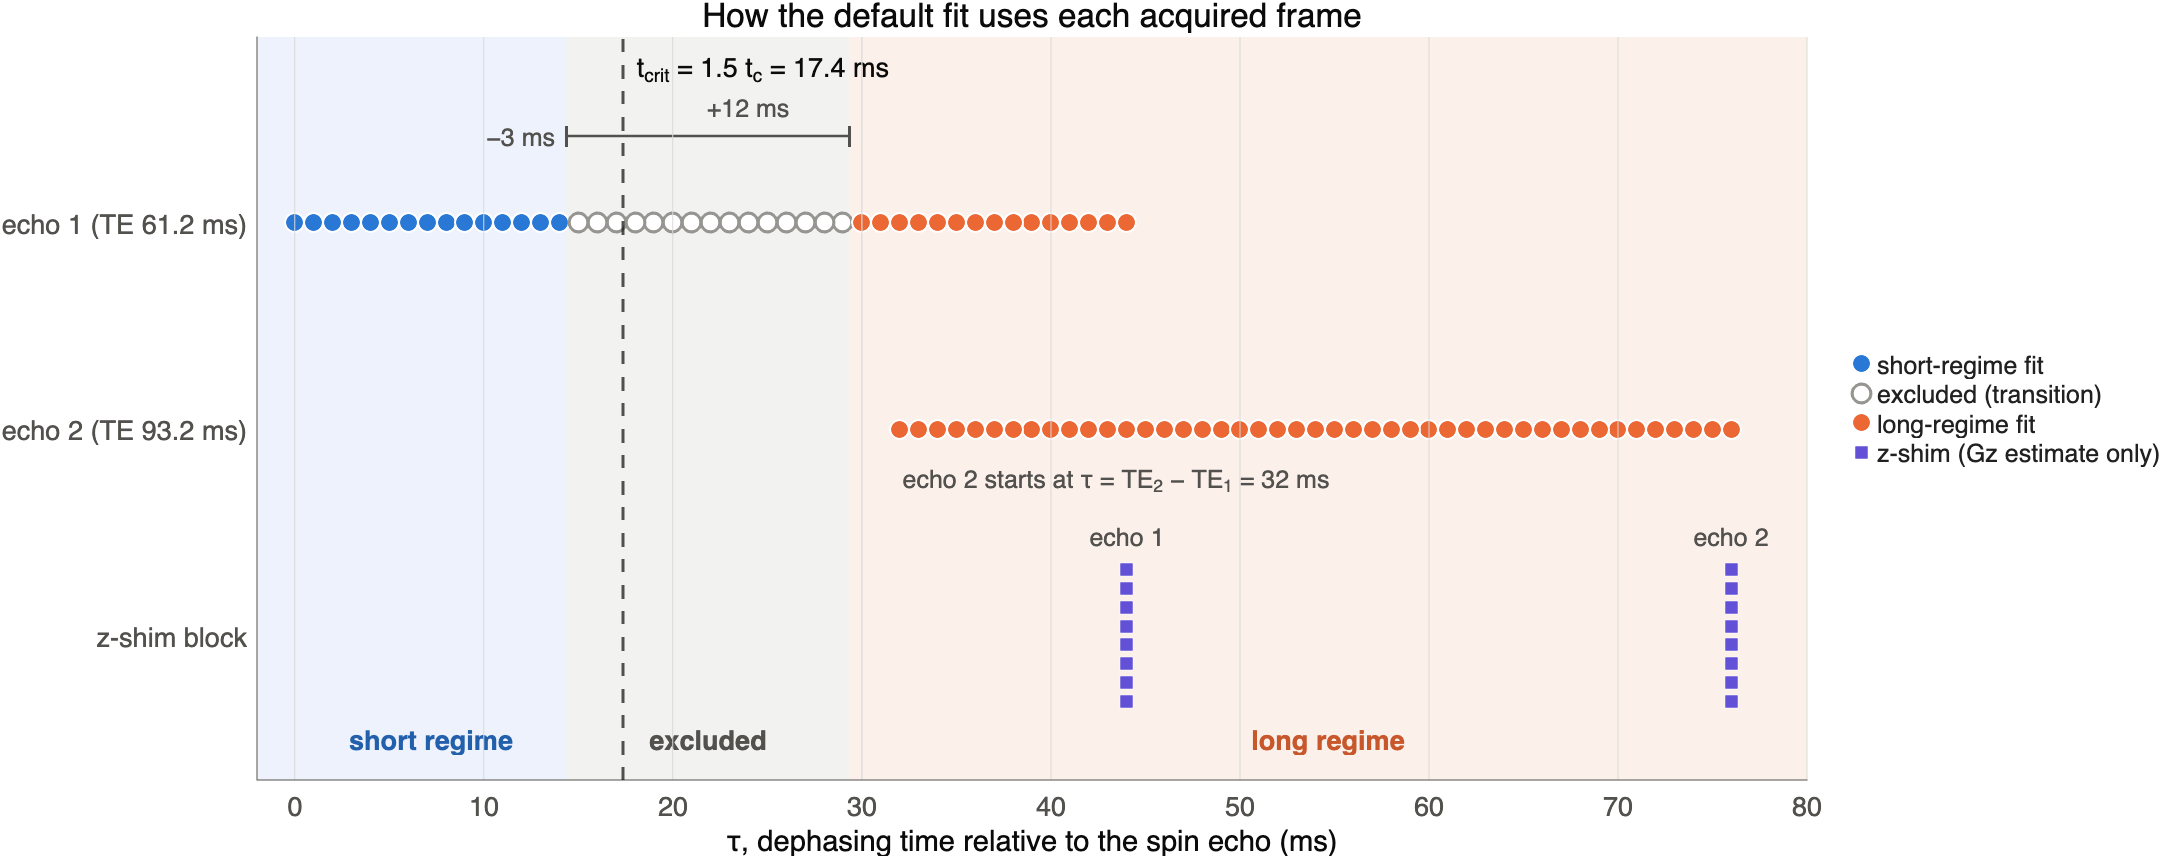
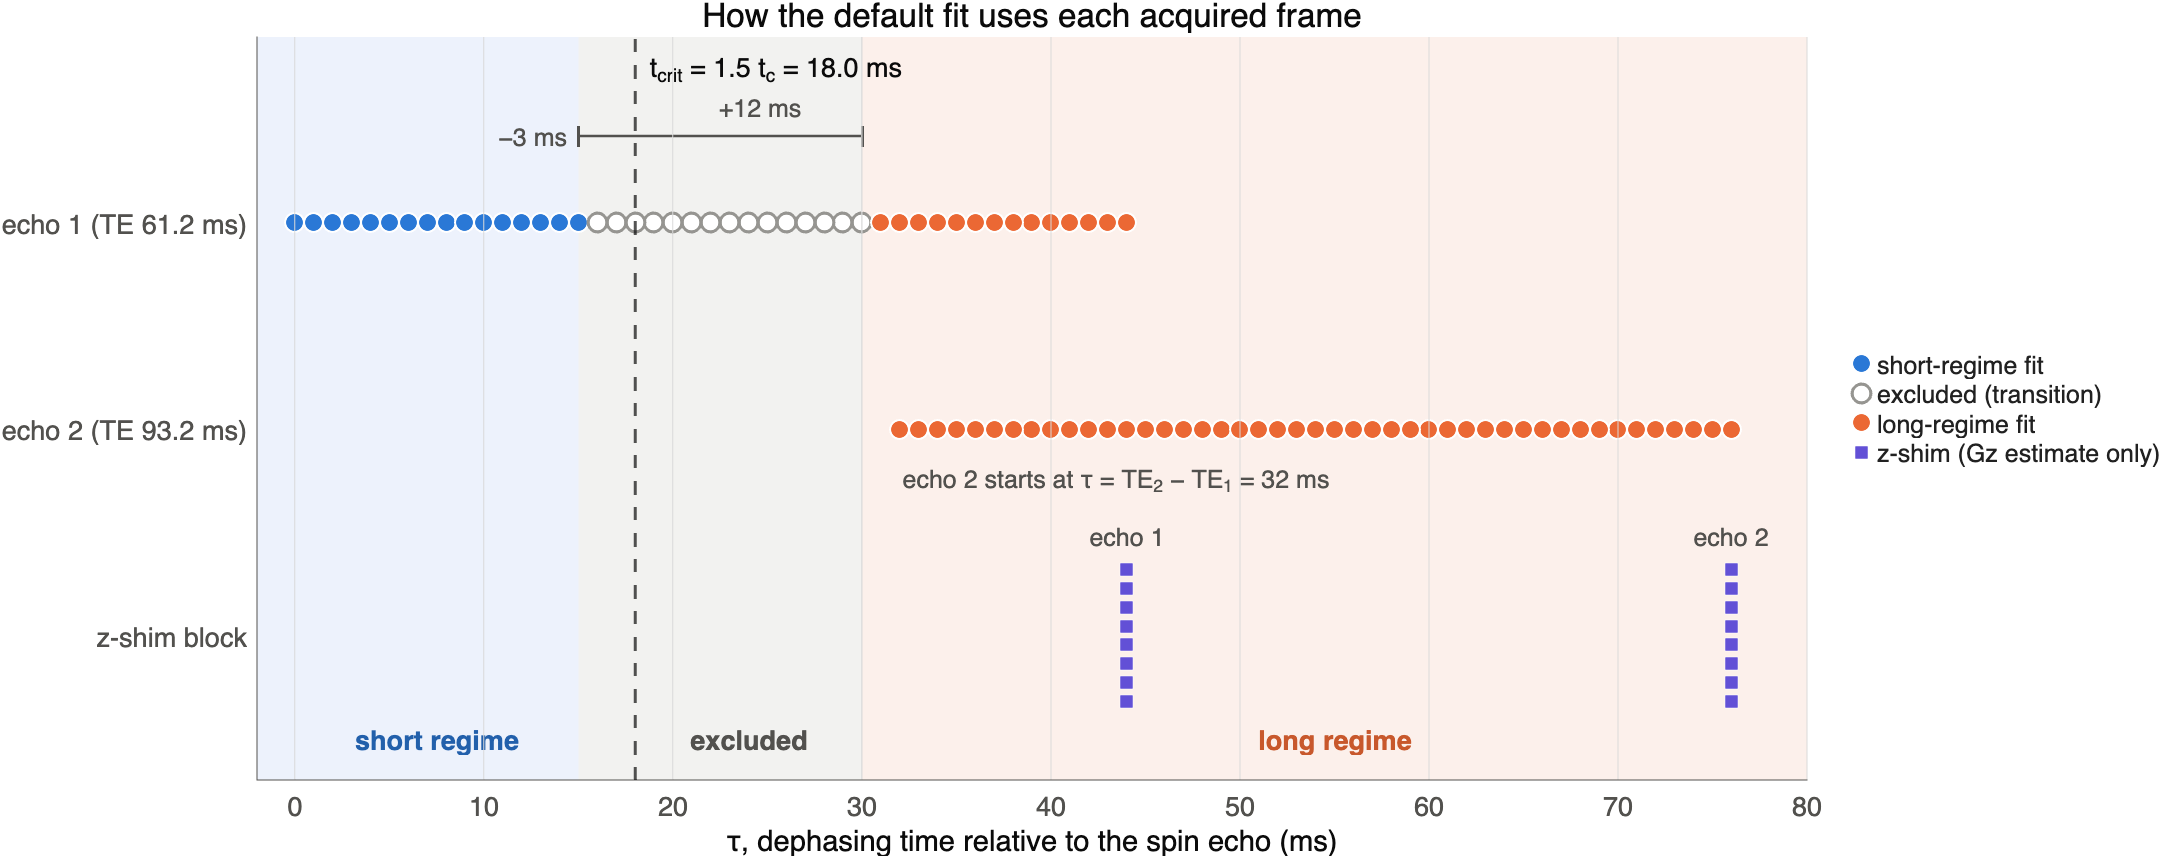
B0 from the imaging frequency: B0_T in ase_hdr.json, used by aseFit.sh
asePreProcess.sh writes B0_T = ImagingFrequency / 42.577478518 MHz/T (actual field;
MagneticFieldStrength is the nominal 3 T) into the combined header. aseFit.sh uses it
by default (--B0 still overrides) and rejects headers without it (rerun --regenHdr).
readASEHeader reports the same value. Changes default outputs: t_crit 17.4 -> 18.0 ms
(short <= 15, long >= 31 ms), OEF +3.3% on the test subject. Docs and figure updated.

diff --git a/Aux_Mat_Functions/readASEHeader.m b/Aux_Mat_Functions/readASEHeader.m
@@ -4,7 +4,8 @@ function [dTEs, zShimming, TEs, info] = readASEHeader(hdr_File)
 %   dTEs      : ndTE x 1            dTE per frame (ms), acquisition order (not sorted)
 %   zShimming : ndTE x nEchos       z-moment per frame (Tms/m), same frame order as dTEs
 %   TEs       : nEchos x 1          echo times (ms), ordered by echo number
-%   info      : struct (optional 4th output) with B0, ImagingFrequency, MaxDTE_ms,
+%   info      : struct (optional 4th output) with B0 (actual field, T; from B0_T or the imaging
+%               frequency), B0_nominal, ImagingFrequency, MaxDTE_ms,
 %               StepDTE_ms, nSweep, nReps, nZshimming, repInds, zShimInds,
 %               zMoments (nZshim x nEchos, T*s/m), SliceThickness_mm (nEchos x 1,
 %               NaN if absent from the header), series, file
@@ -88,7 +89,14 @@ function [dTEs, zShimming, TEs, info] = readASEHeader(hdr_File)
     
     if nargout > 3
         info = struct();
-        info.B0               = h.MagneticFieldStrength;
+        % actual field strength: B0_T written by asePreProcess.sh, else derived from the imaging
+        % frequency (MagneticFieldStrength is the nominal value, e.g. 3 for a 2.89 T Prisma)
+        if isfield(h,'B0_T') && ~isempty(h.B0_T)
+            info.B0 = h.B0_T;
+        else
+            info.B0 = h.ImagingFrequency / 42.577478518;
+        end
+        info.B0_nominal       = h.MagneticFieldStrength;
         info.ImagingFrequency = h.ImagingFrequency;
         info.nEchos           = nEchos;
         info.nReps            = nReps;

diff --git a/Scripts/makeDocFigures.m b/Scripts/makeDocFigures.m
@@ -57,7 +57,7 @@ function makeDocFigures(hdrFile, outDir, opts)
     annotation_arrow(ax, tcrit, lo, ya, ink2);  text(ax, lo - 0.6, ya, sprintf('−%g ms', opts.tCrit_buffer(1)), 'HorizontalAlignment','right','FontSize',12,'Color',ink2);
     annotation_arrow(ax, tcrit, hi, ya, ink2);  text(ax, (tcrit+hi)/2 + 0.6, ya+0.14, sprintf('+%g ms', opts.tCrit_buffer(2)), 'HorizontalAlignment','center','FontSize',12,'Color',ink2);
     text(ax, lo/2, 0.5, 'short regime', 'HorizontalAlignment','center','FontSize',13,'Color',cShort*0.8,'FontWeight','bold');
-    text(ax, (lo+hi)/2, 0.5, 'excluded', 'HorizontalAlignment','center','FontSize',13,'Color',ink2,'FontWeight','bold');
+    text(ax, (tcrit+hi)/2, 0.5, 'excluded', 'HorizontalAlignment','center','FontSize',13,'Color',ink2,'FontWeight','bold');
     text(ax, (hi+xl(2))/2, 0.5, 'long regime', 'HorizontalAlignment','center','FontSize',13,'Color',cLong*0.85,'FontWeight','bold');
     text(ax, TEs(2)-TEs(1), 1.75, sprintf('echo 2 starts at τ = TE_2 − TE_1 = %.0f ms', TEs(2)-TEs(1)), 'FontSize',12, 'Color',ink2, 'HorizontalAlignment','left');
 

diff --git a/docs/decisions.md b/docs/decisions.md
@@ -10,7 +10,7 @@ This page lists the method decisions in short form. Full evidence (tables, simul
 | 2026-11-16 | z-shim-corrected frames are weighted by F² instead of dropped at F < 0.5 | `zshim_weightF2` = true, `zshim_Fcut` = 0.1 | Dividing by F scales the noise by 1/F. Dropping frames lost about 6% of brain fits. | Q1 |
 | 2026-11-16 | With dBCorr, each ROI average uses one fixed weight per voxel (F² at its worst frame) | (with `dBCorr`) | Every frame then averages the same voxel mix, so the curve shape isn't biased. Regions with OEF: 137 → 153. | Q2 |
 | 2026-11-16 | Per-echo R2′ F-test (bit 9) off | `useR2PEcho` = false | It flagged 64–81% of brain because of a systematic echo-1 / echo-2 slope difference, not bad voxels | Q3 |
-| 2026-11-16 | The long regime starts later; the short regime is unchanged | `tCrit_buffer` = [3, 12] | Static-dephasing simulation: the echo gap appears when the true t_c is longer than assumed. Later start: OEF bias at true OEF 0.2 is +27% → +17%. Matches AnLab's 30 ms cutoff. | Q3 |
+| 2026-11-16 | The long regime starts later; the short regime is unchanged | `tCrit_buffer` = [3, 12] | Static-dephasing simulation: the echo gap appears when the true t_c is longer than assumed. Later start: OEF bias at true OEF 0.2 is +27% → +17%. Close to AnLab's cutoffs (short ≤ 15, long ≥ 30 ms). | Q3 |
 | 2026-11-16 | StO2_max kept at 0.6, **flagged for revisit** | `StO2_max` = 0.6 | Noise simulation: no clear winner at the voxel level. A higher value would reduce the ROI-level bias at low OEF. | Q3 (StO2_max) |
 | 2026-11-16 | CSF fraction from xvent (FreeSurfer); SynthSeg posteriors optional | `qualityMaskNames` = xvent, `tissuePosteriorName` = "" | xvent already treats sulcal CSF as CSF, consistent with the FreeSurfer ROIs. SynthSeg moves ROI OEF by only about 0.002. | Q4 |
 | 2026-11-16 | Vein threshold relative to the subject's tissue vCBV | `vein_mode` = relative, `vein_relK` = 4 | The absolute vCBV scale depends on the analysis (window, dBCorr). A fixed 0.15 flagged half of GM. | Q5 |
@@ -18,6 +18,7 @@ This page lists the method decisions in short form. Full evidence (tables, simul
 | 2026-11-16 | Joint (both-echo) Gz fit available but off | `zshim_jointGz` = false | More precise where the linear through-slice model holds, but biased where the echoes disagree (susceptibility regions). Revisit with thinner slices. | Q7 |
 | 2026-11-16 | Echo 2 motion-corrected with echo 1's transforms | `motionMode` = echo1 | Both echoes come from the same excitation (32 ms apart). Registering echo 2 separately across TE added a spurious 0.4 mm / 0.4° offset and +5% vCBV. | Follow-ups: echo-2 motion |
 | 2026-11-16 | Z-shim zero-moment frame (raw 96) left out of the regime fits | `zshimZeroFrameInFit` = false | It is acquired minutes after the sweep. Removing it shrinks the echo gap by 2 points, with negligible effect on the maps. Matches AnLab. | Follow-ups: frame 96 |
+| 2026-11-16 | B0 is the actual field from the imaging frequency, written into `ase_hdr.json`, instead of the nominal 3 T | `B0_T` in the header (`B0` = null) | Matches AnLab and the physics: on the 2.892 T Prisma the nominal value made OEF about 3% too low. t_crit moves from 17.4 to 18.0 ms, so the short regime gains τ = 15 and the long regime starts at 31 ms. Test subject: OEF +3.3%, R2′ / R2 ≤ 0.1%, vCBV +0.5%. | (this page) |
 | 2026-11-16 | AnLab's robust regression and smoothing not adopted | — | Small effects; would conflict with the F² weights and the analytic SEs, and blur the quality flags | AnLab fitting steps not adopted |
 
 ## Open questions and known limitations

diff --git a/docs/pipeline.md b/docs/pipeline.md
@@ -72,8 +72,8 @@ The fit splits the frames by τ around t_crit = 1.5 · t_c:
 - **Z-shim block:** 8 frames per echo at each echo's longest τ, with different z-moments. Used only to estimate the through-slice gradient Gz; never in the regime fits, including its zero-moment frame.
 - Generated by `Scripts/makeDocFigures.m` from the test subject's header.
 
-- **t_c** = 1 / δω, where δω = (4/3)·π·γ·Δχ₀·Hct·(1 − StO2_max)·B0. With the defaults (3T, Δχ₀ = 0.18 ppm, Hct = 0.42 × 0.85, StO2_max = 0.6), t_c = 11.6 ms and t_crit = 17.4 ms.
-- **The excluded band** comes from `tCrit_buffer` = [3, 12]. The short regime ends at t_crit − 3 ms (≤ 14 ms) and the long regime starts at t_crit + 12 ms (≥ 30 ms). The upper side is wider on purpose: when the tissue's true t_c is longer than assumed, the decay is still curving at 20 ms (see [decisions.md](decisions.md)).
+- **t_c** = 1 / δω, where δω = (4/3)·π·γ·Δχ₀·Hct·(1 − StO2_max)·B0. B0 is the **actual** field from the header (`B0_T` = imaging frequency / 42.5775 MHz/T, e.g. 2.892 T on the Prisma), not the nominal 3 T. With the defaults (Δχ₀ = 0.18 ppm, Hct = 0.42 × 0.85, StO2_max = 0.6) that gives t_c = 12.0 ms and t_crit = 18.0 ms.
+- **The excluded band** comes from `tCrit_buffer` = [3, 12]. The short regime ends at t_crit − 3 ms (τ ≤ 15 ms) and the long regime starts at t_crit + 12 ms (τ ≥ 31 ms). The upper side is wider on purpose: when the tissue's true t_c is longer than assumed, the decay is still curving at 20 ms (see [decisions.md](decisions.md)).
 
 ## 3. The signal model and the fit
 

diff --git a/docs/settings.md b/docs/settings.md
@@ -35,7 +35,8 @@ Every setting lives in `BashFiles/ase_config.json`. Precedence: script defaults 
 | `tissuePosteriorName` | `""` (off) | optional SynthSeg posteriors (e.g. `anat_fs_al_posteriors.nii.gz`) for an alternative tissue fraction |
 | `tissueFracName`, `posteriorNonTissueVols`, `posteriorNVols` | `anat_fs_tissueFrac_al.nii.gz`, `0,3,4,11,12,16,21,22`, 33 | SynthSeg tissue fraction = 1 − (background + CSF + ventricles). To use it, also set `qualityMaskNames` to `tissueFracName`. |
 | `fitsSubdir`, `outPref` | `fits`, `ase_fit_results` | output folder (`<subject>/<aseSubjDir>/<fitsSubdir>/<timestamp>/`) and file prefix |
-| `matlabBin`, `matdir`, `B0` | `matlab`, repo, header value | MATLAB location; `B0` overrides the header's field strength |
+| `matlabBin`, `matdir` | `matlab`, repo | MATLAB location |
+| **`B0`** | null = header `B0_T` (changed) | field strength (T) for t_crit and the OEF scale. By default the **actual** field from each subject's header, `B0_T` = ImagingFrequency / 42.577478518 MHz/T, written by `asePreProcess.sh`. It used to be the nominal `MagneticFieldStrength` (3). Set a number (or `aseFit.sh --B0`) to override. Headers without `B0_T` are rejected: rerun `asePreProcess.sh --regenHdr`. |
 
 **Re-running preprocessing stages:** `--regenNifti`, `--regenComments`, `--regenHdr`, `--regenMotion`, `--regenTransfer`, `--regenRegister`, `--regenTransform`. Each one also forces the stages downstream of it. Without them, existing outputs are kept.
 

diff --git a/docs/outputs.md b/docs/outputs.md
@@ -6,7 +6,7 @@
 |---|---|---|
 | `ase_<series>.nii`, `dcm_hdr_<series>.json` | 1 | converted echo series (98 frames) and dcm2niix sidecar |
 | `dcm_hdr_<series>_dtes.txt` | 2 | per frame: DICOM file, frame index, acquisition time (ms since midnight), dTE / z-moment / rep / echo |
-| `ase_hdr.json` | 3 | combined header: TEs, dTEs, z-moments, `SliceThickness_mm` per echo |
+| `ase_hdr.json` | 3 | combined header: actual field `B0_T` (from the imaging frequency) and nominal `MagneticFieldStrength`, `ImagingFrequency`; per echo: TE, dTEs, z-moments, `SliceThickness_mm` |
 | `ase_base.nii.gz` | 4 | echo-1 frame 0 (spin echo): motion and registration reference |
 | `ase_e<k>_proc.nii.gz`, `ase_e<k>_mc.1D` | 4 | motion-corrected echoes and motion parameters (with `motionMode=echo1`, the echo-2 `.1D` is a copy of echo 1's) |
 | `ase_e1_mc_mat.aff12.1D` | 4 | per-frame echo-1 transforms (`motionMode=echo1`) |
